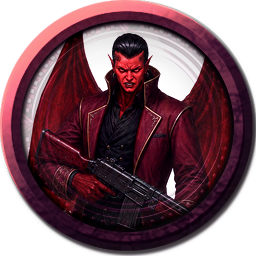
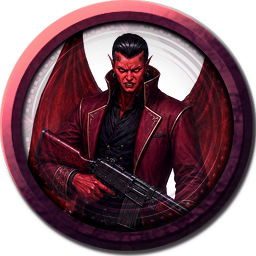
f

Changed region(s): [[0.2812, 0.6562, 0.4375, 0.7812]]

diff --git a/images_mark/README.md b/images_mark/README.md
@@ -277,6 +277,11 @@
 </td>
 
 <td valign="bottom">
+<img src="./MF_DEV5.png" width="100" height="100"><br>
+<sup>MF_DEV5.png</sup>
+</td>
+
+<td valign="bottom">
 <img src="./MKM.png" width="100" height="100"><br>
 <sup>MKM.png</sup>
 </td>
@@ -291,13 +296,13 @@
 <sup>MTN2.png</sup>
 </td>
 
+</tr>
+<tr>
 <td valign="bottom">
 <img src="./MTN3.png" width="100" height="100"><br>
 <sup>MTN3.png</sup>
 </td>
 
-</tr>
-<tr>
 <td valign="bottom">
 <img src="./MTN4.png" width="100" height="100"><br>
 <sup>MTN4.png</sup>
@@ -323,13 +328,13 @@
 <sup>MTN8B.png</sup>
 </td>
 
+</tr>
+<tr>
 <td valign="bottom">
 <img src="./nwg.png" width="100" height="100"><br>
 <sup>nwg.png</sup>
 </td>
 
-</tr>
-<tr>
 <td valign="bottom">
 <img src="./n_DG2.png" width="100" height="100"><br>
 <sup>n_DG2.png</sup>
@@ -355,13 +360,13 @@
 <sup>RMNPC0.png</sup>
 </td>
 
+</tr>
+<tr>
 <td valign="bottom">
 <img src="./RMNPC1.png" width="100" height="100"><br>
 <sup>RMNPC1.png</sup>
 </td>
 
-</tr>
-<tr>
 <td valign="bottom">
 <img src="./RMNPC2.png" width="100" height="100"><br>
 <sup>RMNPC2.png</sup>
@@ -387,13 +392,13 @@
 <sup>ROMAN.png</sup>
 </td>
 
+</tr>
+<tr>
 <td valign="bottom">
 <img src="./ROMAN2.png" width="100" height="100"><br>
 <sup>ROMAN2.png</sup>
 </td>
 
-</tr>
-<tr>
 <td valign="bottom">
 <img src="./ROMAN3.png" width="100" height="100"><br>
 <sup>ROMAN3.png</sup>
@@ -419,13 +424,13 @@
 <sup>SOVA.png</sup>
 </td>
 
+</tr>
+<tr>
 <td valign="bottom">
 <img src="./starrrr.png" width="100" height="100"><br>
 <sup>starrrr.png</sup>
 </td>
 
-</tr>
-<tr>
 <td valign="bottom">
 <img src="./S_TK.png" width="100" height="100"><br>
 <sup>S_TK.png</sup>
@@ -451,13 +456,13 @@
 <sup>TIH1.png</sup>
 </td>
 
+</tr>
+<tr>
 <td valign="bottom">
 <img src="./token_1_14.png" width="100" height="100"><br>
 <sup>token_1_14.png</sup>
 </td>
 
-</tr>
-<tr>
 <td valign="bottom">
 <img src="./token_1_20.png" width="100" height="100"><br>
 <sup>token_1_20.png</sup>
@@ -483,13 +488,13 @@
 <sup>token_4_2.png</sup>
 </td>
 
-<td valign="bottom">
-<img src="./token_gobbb.png" width="100" height="100"><br>
-<sup>token_gobbb.png</sup>
-</td>
-
 </tr>
 <tr>
+<td valign="bottom">
+<img src="./TRADER.png" width="100" height="100"><br>
+<sup>TRADER.png</sup>
+</td>
+
 <td valign="bottom">
 <img src="./TRADER.png" width="100" height="100"><br>
 <sup>TRADER.png</sup>
@@ -515,13 +520,13 @@
 <sup>WX0.png</sup>
 </td>
 
+</tr>
+<tr>
 <td valign="bottom">
 <img src="./WX1.png" width="100" height="100"><br>
 <sup>WX1.png</sup>
 </td>
 
-</tr>
-<tr>
 <td valign="bottom">
 <img src="./WX2.png" width="100" height="100"><br>
 <sup>WX2.png</sup>
@@ -547,13 +552,13 @@
 <sup>WX6.png</sup>
 </td>
 
+</tr>
+<tr>
 <td valign="bottom">
 <img src="./WX7.png" width="100" height="100"><br>
 <sup>WX7.png</sup>
 </td>
 
-</tr>
-<tr>
 <td valign="bottom">
 <img src="./WX_SH.png" width="100" height="100"><br>
 <sup>WX_SH.png</sup>